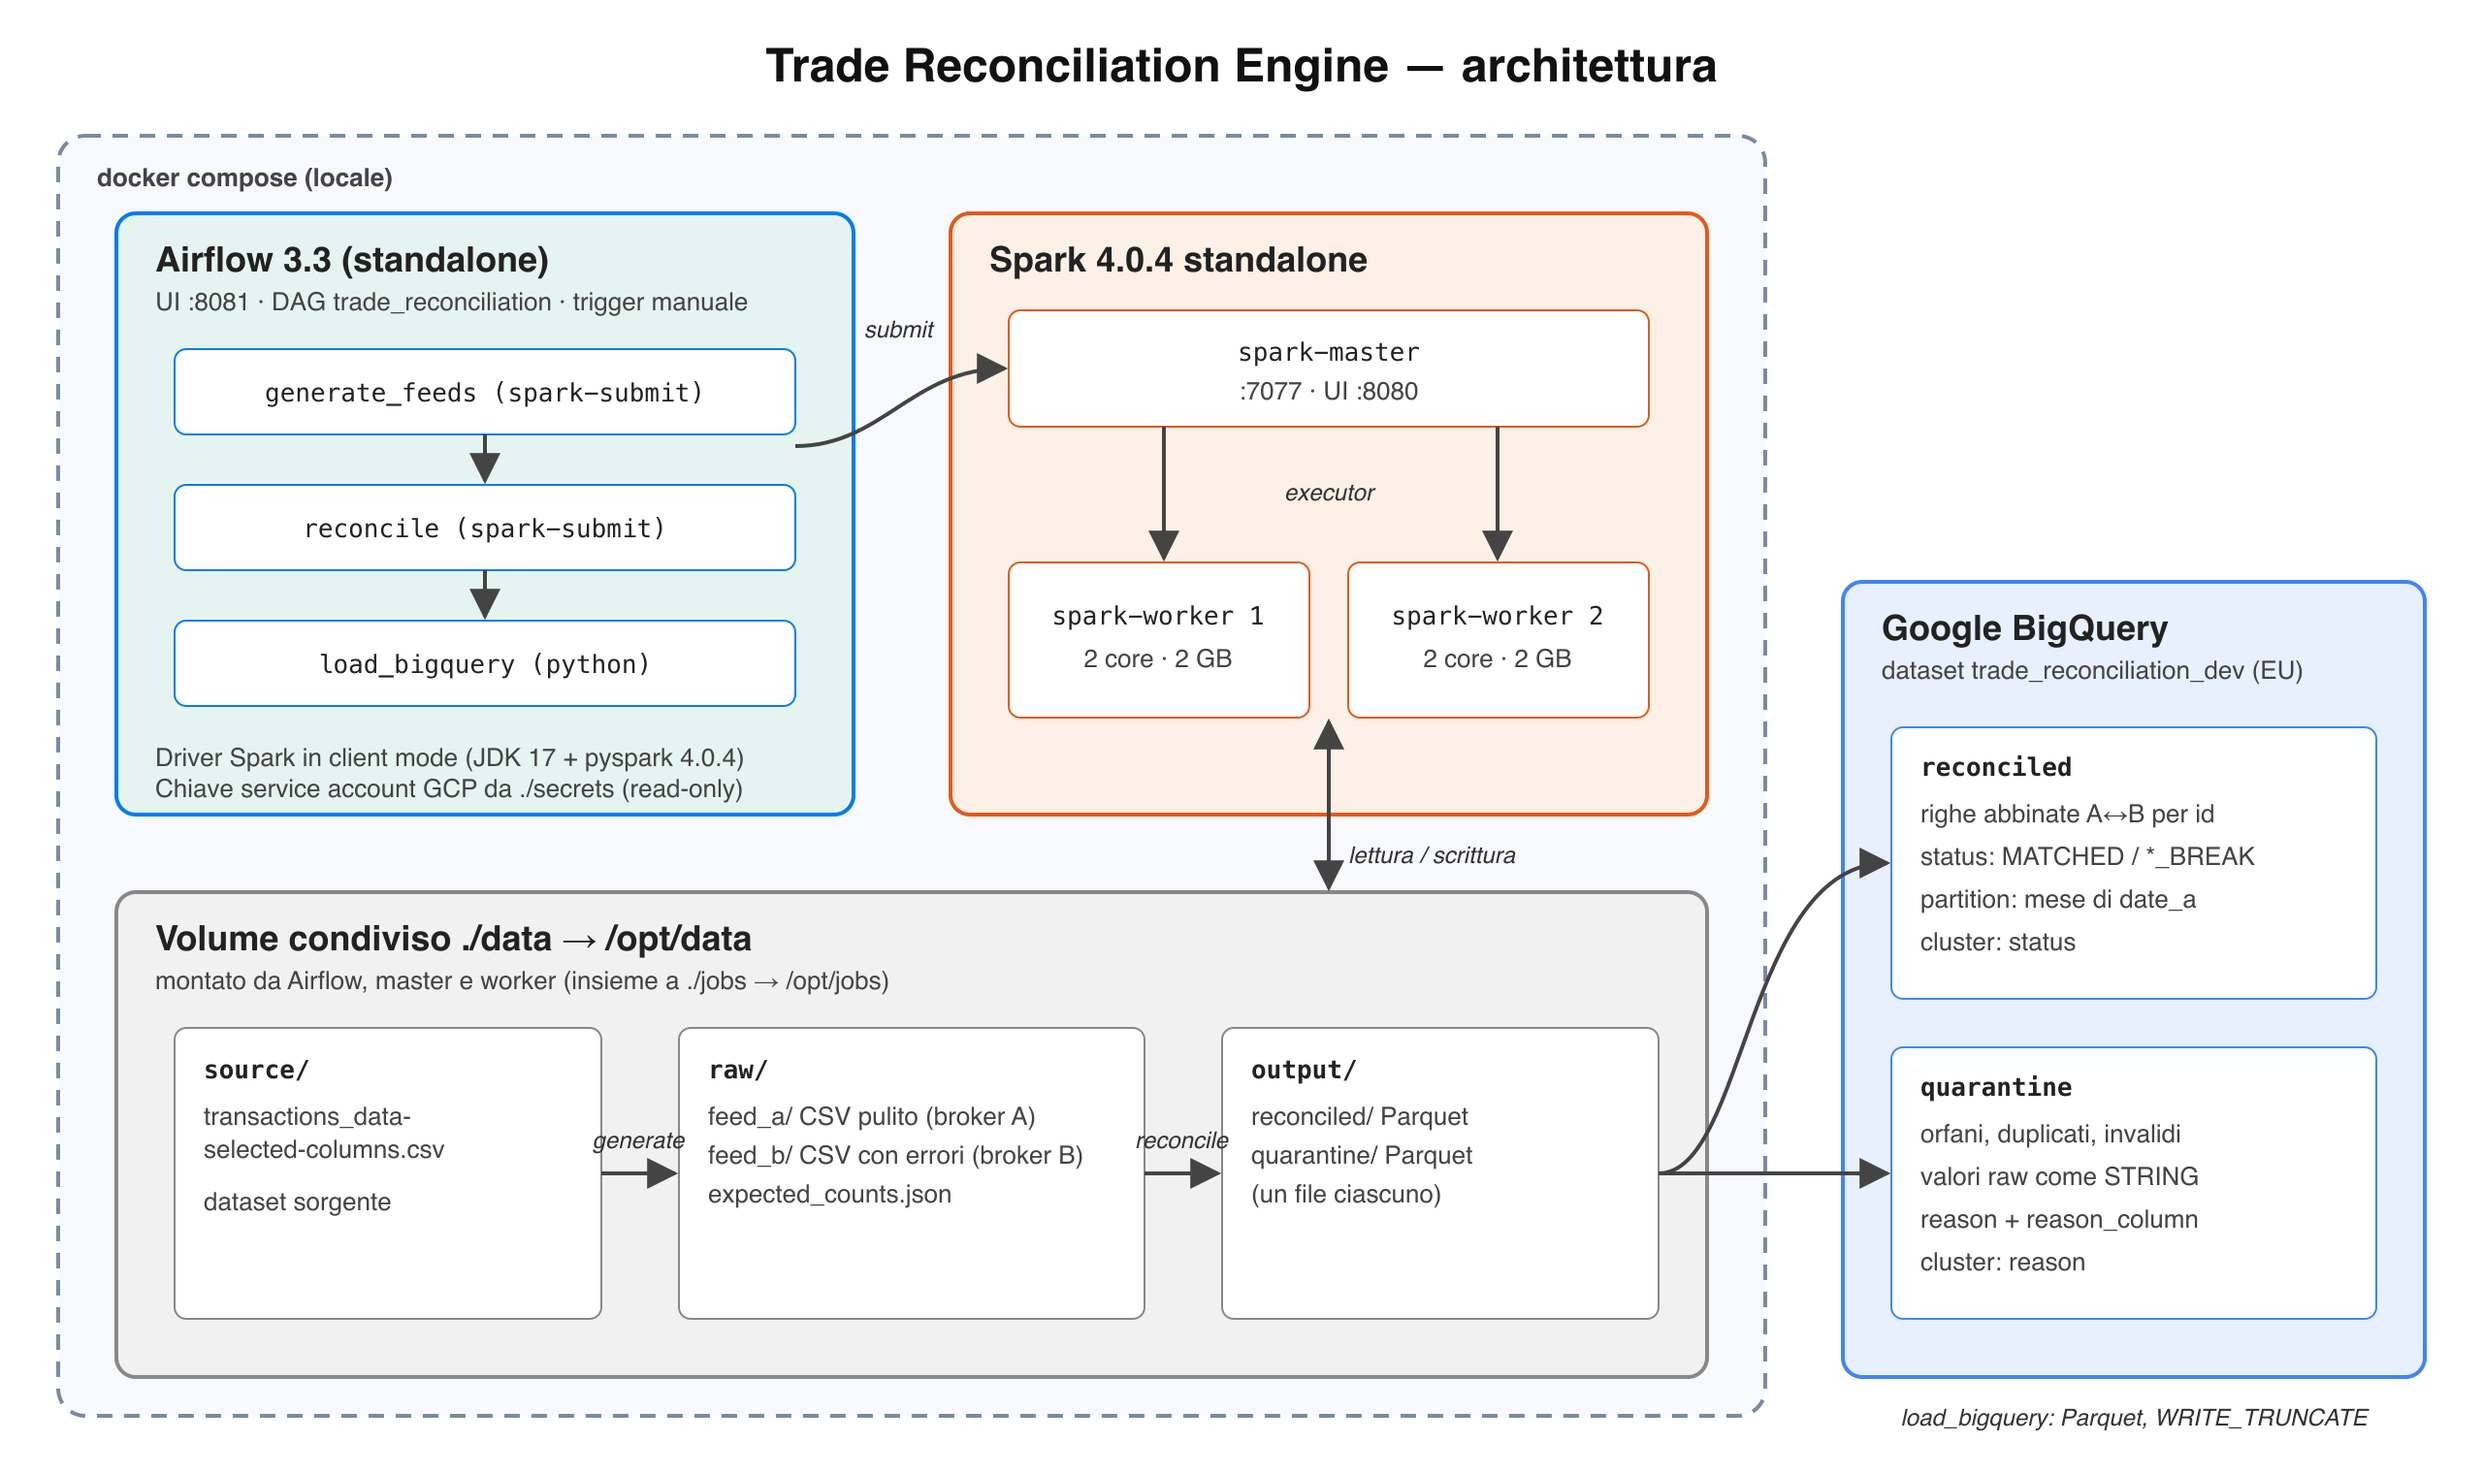
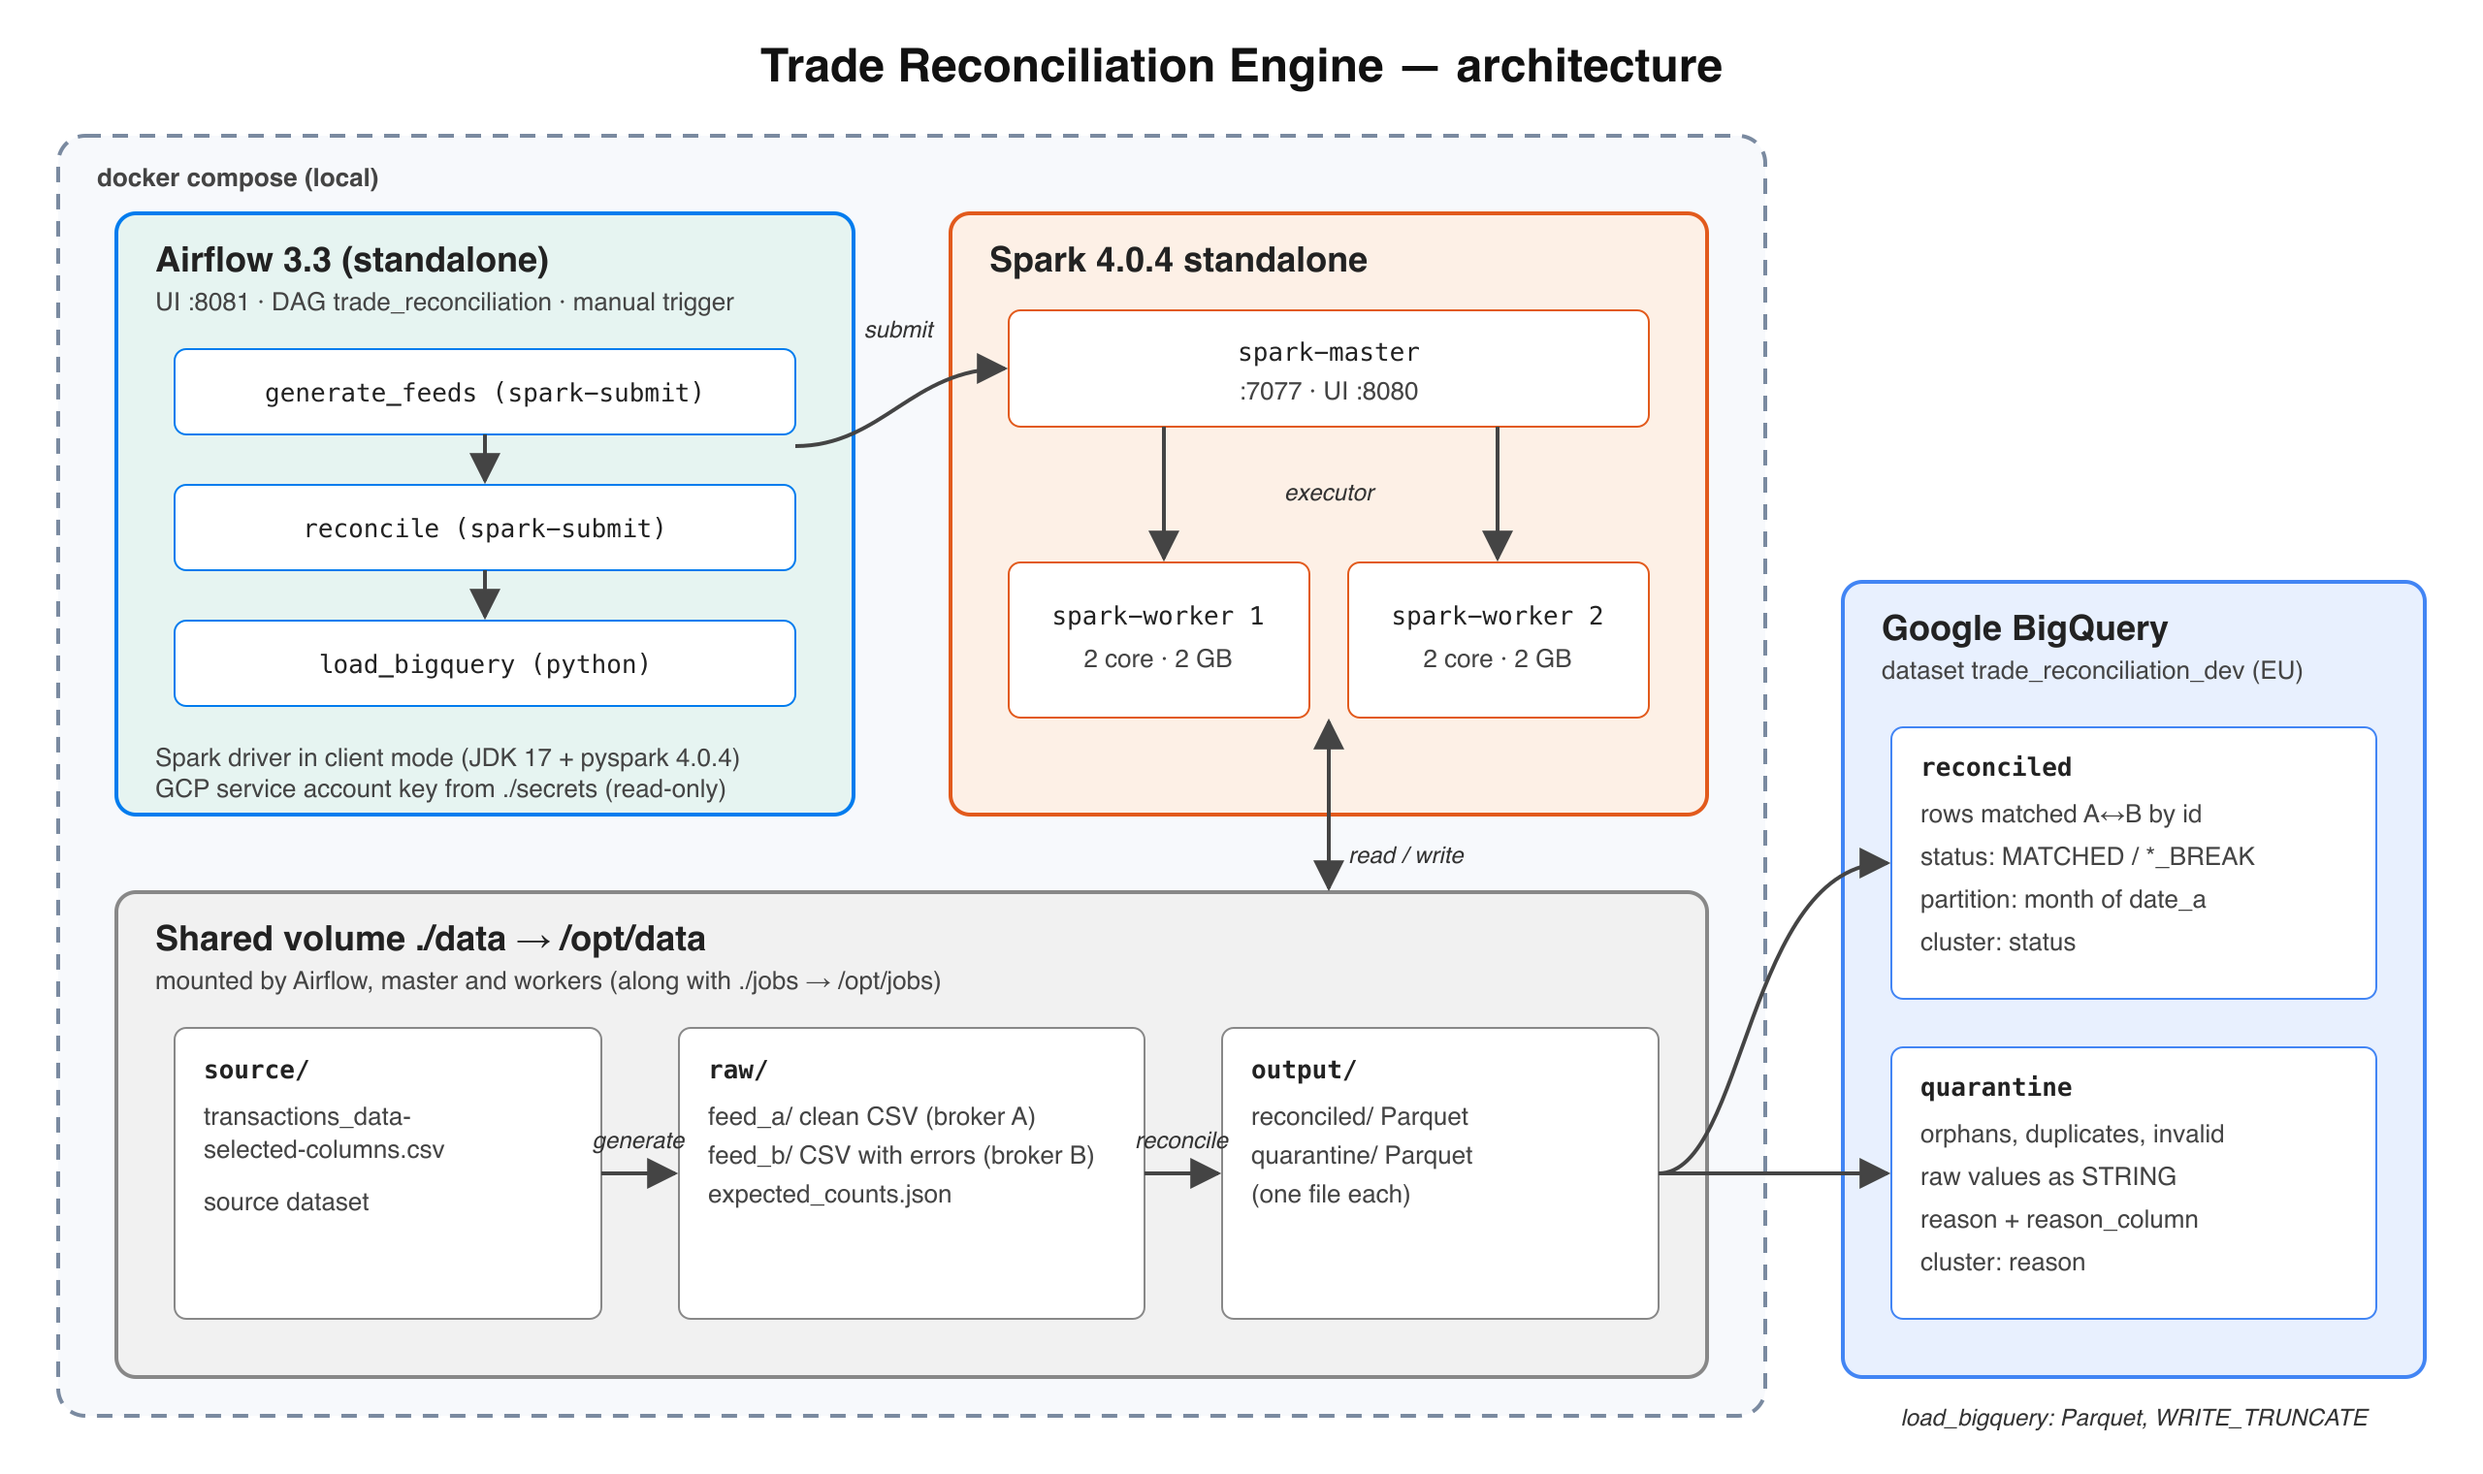
Translate remaining Italian text to English
- Translated comments and docstrings in jobs
- Translated SQL schema comments
- Translated compose and Dockerfile comments
- Translated script output messages
- Translated architecture diagram labels
- Re-rendered architecture PNG

diff --git a/jobs/generate_feeds.py b/jobs/generate_feeds.py
@@ -1,8 +1,8 @@
-"""Simula i due feed dei broker.
+"""Simulate the two broker feeds.
 
-A = CSV sorgente ridotto a 6 colonne (riferimento pulito).
-B = copia di A con al massimo un errore per riga; seed e peso di ogni tipo di errore cambiano a ogni run.
-Scrive anche expected_counts.json: l'esito atteso di ogni riga, usato da reconcile.py per verificarsi.
+A = source CSV reduced to 6 columns (clean reference).
+B = copy of A with at most one error per row; the seed and the weight of each error type change on every run.
+Also writes expected_counts.json: the expected outcome of every row, used by reconcile.py to check itself.
 """
 import json
 import random
@@ -15,20 +15,20 @@ from pyspark.sql import SparkSession, functions as F
 SRC = "/opt/data/source/transactions_data-selected-columns.csv"
 OUT = "/opt/data/raw"
 COLS = ["id", "date", "client_id", "card_id", "amount", "merchant_id"]
-SEED = random.randrange(2**31)  # salvato in expected_counts.json
-ERROR_RATE, ID_RATE, NULL_RATE = 0.75, 0.005, 0.02  # ID e NULL sono compresi nel 75%
+SEED = random.randrange(2**31)  # saved in expected_counts.json
+ERROR_RATE, ID_RATE, NULL_RATE = 0.75, 0.005, 0.02  # ID and NULL are included in the 75%
 
-# tipo di errore -> esito atteso (status in reconciled o reason in quarantine)
+# error type -> expected outcome (status in reconciled or reason in quarantine)
 VALUE_ERRORS = {
-    "date_jitter": "MATCHED",                # ±1-59 s, entro la tolleranza
+    "date_jitter": "MATCHED",                # ±1-59 s, within tolerance
     "date_shift": "DATE_BREAK",              # +2 min .. 3 h
-    "date_future": "OUT_OF_DOMAIN",          # +100 anni (multiplo di 4: il 29/02 resta valido)
-    "date_malformed": "UNPARSEABLE",         # formato dd/MM/yyyy HH:mm
-    "amount_rounding": "MATCHED",            # ±0.01, entro la tolleranza
+    "date_future": "OUT_OF_DOMAIN",          # +100 years (multiple of 4: Feb 29 stays valid)
+    "date_malformed": "UNPARSEABLE",         # dd/MM/yyyy HH:mm format
+    "amount_rounding": "MATCHED",            # ±0.01, within tolerance
     "amount_change": "AMOUNT_BREAK",         # ±1 .. 100
-    "amount_fat_finger": "OUT_OF_DOMAIN",    # +1.000.000
+    "amount_fat_finger": "OUT_OF_DOMAIN",    # +1,000,000
     "amount_malformed": "UNPARSEABLE",       # "#VALUE!"
-    "client_change": "CLIENT_BREAK",         # un altro client valido
+    "client_change": "CLIENT_BREAK",         # another valid client
     "client_out_of_range": "OUT_OF_DOMAIN",
     "card_change": "CARD_BREAK",
     "card_out_of_range": "OUT_OF_DOMAIN",
@@ -36,17 +36,17 @@ VALUE_ERRORS = {
     "merchant_out_of_range": "OUT_OF_DOMAIN",
 }
 NULL_ERRORS = {f"null_{c}": "NULL_VALUE" for c in COLS[1:]}
-DOMAIN_SIZE = {"client_id": 1999, "card_id": 6145, "merchant_id": 100343}  # id validi: 0 .. N-1
+DOMAIN_SIZE = {"client_id": 1999, "card_id": 6145, "merchant_id": 100343}  # valid ids: 0 .. N-1
 
 rng = random.Random(SEED)
 
 
-def split(names, total):  # un peso casuale per ogni nome, con somma total
+def split(names, total):  # a random weight for each name, summing to total
     w = {n: rng.random() for n in names}
     return {n: x / sum(w.values()) * total for n, x in w.items()}
 
 
-# probabilità di ogni tipo di errore: ID e NULL hanno quote fisse, il resto va agli errori sui valori
+# probability of each error type: ID and NULL have fixed shares, the rest goes to value errors
 WEIGHTS = {"id_shift": ID_RATE, **split(NULL_ERRORS, NULL_RATE),
            **split(VALUE_ERRORS, ERROR_RATE - ID_RATE - NULL_RATE)}
 
@@ -57,11 +57,11 @@ a = spark.read.csv(SRC, header=True).select(COLS)
 a.write.mode("overwrite").csv(f"{OUT}/feed_a", header=True)
 
 
-# Numeri casuali materializzati come colonne: ogni riga usa sempre gli stessi valori.
+# Random numbers materialized as columns: each row always uses the same values.
 b = a.select("*", *[F.rand(SEED + i).alias(n) for i, n in enumerate("ums")])
 u, m = F.col("u"), F.col("m")
 
-# u cade in uno degli intervalli [0, w1), [w1, w1+w2), ...: oltre ERROR_RATE la riga resta pulita.
+# u falls into one of the intervals [0, w1), [w1, w1+w2), ...: above ERROR_RATE the row stays clean.
 names, bounds = list(WEIGHTS), list(accumulate(WEIGHTS.values()))
 error = F.when(u < bounds[0], names[0])
 for name, bound in zip(names[1:], bounds[1:]):
@@ -86,13 +86,13 @@ def plus(c, n):
     return (F.col(c).cast("bigint") + n).cast("string")
 
 
-def other(c):  # un altro id del dominio, sempre diverso dall'originale
+def other(c):  # another id in the domain, always different from the original
     n = DOMAIN_SIZE[c]
     return ((F.col(c).cast("bigint") + 1 + (m * (n - 1)).cast("bigint")) % n).cast("string")
 
 
 mutated = {
-    "id": F.when(e == "id_shift", plus("id", 100_000_000)),  # oltre il max di A: niente collisioni
+    "id": F.when(e == "id_shift", plus("id", 100_000_000)),  # beyond A's max: no collisions
     "date": F.when(e == "date_jitter", ts(secs + sign * (1 + (m * 59).cast("int"))))
              .when(e == "date_shift", ts(secs + 120 + (m * 10_680).cast("int")))
              .when(e == "date_future", F.concat(plus("date_year", 100), F.substring("date", 5, 15)))

diff --git a/jobs/reconcile.py b/jobs/reconcile.py
@@ -1,9 +1,9 @@
-"""Riconcilia feed A e B.
+"""Reconcile feeds A and B.
 
-1. Legge i due feed come stringhe, converte i tipi e valida ogni campo.
-2. FULL OUTER JOIN su id. Le righe senza controparte vanno in quarantena.
-3. Le righe abbinate con un valore invalido vanno in quarantena, le altre vengono classificate.
-Scrive reconciled/ e quarantine/ in Parquet (un file ciascuno, per il load su BigQuery).
+1. Read both feeds as strings, cast the types and validate every field.
+2. FULL OUTER JOIN on id. Rows without a counterpart go to quarantine.
+3. Matched rows with an invalid value go to quarantine, the others are classified.
+Writes reconciled/ and quarantine/ as Parquet (one file each, for the BigQuery load).
 """
 import json
 import os
@@ -16,7 +16,7 @@ from pyspark.sql import SparkSession, Window, functions as F
 
 RAW, OUT = "/opt/data/raw", "/opt/data/output"
 FIELDS = ["date", "client_id", "card_id", "amount", "merchant_id"]
-ID_RANGES = {"client_id": (0, 1998), "card_id": (0, 6144), "merchant_id": (0, 100342)}  # dal profiling di A
+ID_RANGES = {"client_id": (0, 1998), "card_id": (0, 6144), "merchant_id": (0, 100342)}  # from profiling A
 MIN_DATE = "2010-01-01"
 MAX_AMOUNT = 50_000
 DATE_TOLERANCE_SEC = 60
@@ -24,12 +24,12 @@ AMOUNT_TOLERANCE = Decimal("0.01")
 
 spark = (SparkSession.builder.appName("reconcile")
          .config("spark.sql.session.timeZone", "UTC")
-         .config("spark.sql.parquet.outputTimestampType", "TIMESTAMP_MICROS")  # INT96 non serve a BigQuery
+         .config("spark.sql.parquet.outputTimestampType", "TIMESTAMP_MICROS")  # BigQuery does not need INT96
          .getOrCreate())
 
 
 def load(side):
-    """Feed tipizzato + valori raw + primo problema trovato (struct reason/column, null se la riga è valida)."""
+    """Typed feed + raw values + first problem found (reason/column struct, null if the row is valid)."""
     raw = spark.read.csv(f"{RAW}/feed_{side}", header=True)
     typed = {
         "id": F.col("id").try_cast("bigint"),
@@ -58,7 +58,7 @@ def load(side):
                       first.alias(f"issue_{side}"))
 
 
-def bad_id(side):  # id nullo, invalido o duplicato: la riga non può partecipare al join
+def bad_id(side):  # null, invalid or duplicate id: the row cannot take part in the join
     return F.coalesce(F.col(f"issue_{side}.column") == f"id_{side}", F.lit(False))
 
 
@@ -104,16 +104,16 @@ pairs = [f"{c}_{s}" for c in FIELDS for s in "ab"]
          "reason", "reason_column", "run_id", "loaded_at")
  .repartition(1).write.mode("overwrite").parquet(f"{OUT}/quarantine"))
 
-# Verifica: i conteggi per status/reason devono coincidere con quelli attesi dal generatore.
+# Check: counts per status/reason must match those expected by the generator.
 actual = {r[0]: r[1] for t, c in (("reconciled", "status"), ("quarantine", "reason"))
           for r in spark.read.parquet(f"{OUT}/{t}").groupBy(c).count().collect()}
 print(f"run_id {run_id}")
 expected_path = f"{RAW}/expected_counts.json"
 expected = json.load(open(expected_path))["expected"] if os.path.exists(expected_path) else {}
-print(f"{'esito':<16}{'trovati':>12}{'attesi':>12}")
+print(f"{'outcome':<16}{'found':>12}{'expected':>12}")
 for label in sorted(actual.keys() | expected.keys()):
-    ok = "" if not expected or actual.get(label) == expected.get(label) else "  <-- DIVERSO"
+    ok = "" if not expected or actual.get(label) == expected.get(label) else "  <-- MISMATCH"
     print(f"{label:<16}{actual.get(label, 0):>12,}{expected.get(label, 0):>12,}{ok}")
 spark.stop()
 if expected and actual != expected:
-    sys.exit("Conteggi diversi da quelli attesi")
+    sys.exit("Counts differ from expected")

diff --git a/jobs/load_bigquery.py b/jobs/load_bigquery.py
@@ -1,7 +1,7 @@
-"""Carica reconciled/ e quarantine/ nelle tabelle BigQuery trade_reconciliation_dev.*, sostituendone il contenuto.
+"""Load reconciled/ and quarantine/ into the BigQuery tables trade_reconciliation_dev.*, replacing their content.
 
-Le tabelle devono già esistere (bigquery/schema.sql). Progetto e credenziali arrivano dalla
-chiave del service account indicata da GOOGLE_APPLICATION_CREDENTIALS.
+The tables must already exist (bigquery/schema.sql). Project and credentials come from the
+service account key pointed to by GOOGLE_APPLICATION_CREDENTIALS.
 """
 import glob
 
@@ -13,8 +13,8 @@ config = bigquery.LoadJobConfig(source_format=bigquery.SourceFormat.PARQUET,
                                 create_disposition="CREATE_NEVER")
 
 for table in ("reconciled", "quarantine"):
-    [path] = glob.glob(f"/opt/data/output/{table}/*.parquet")  # reconcile.py scrive un solo file
+    [path] = glob.glob(f"/opt/data/output/{table}/*.parquet")  # reconcile.py writes a single file
     with open(path, "rb") as f:
         job = client.load_table_from_file(f, f"{client.project}.trade_reconciliation_dev.{table}", job_config=config)
     job.result()
-    print(f"{table}: {job.output_rows:,} righe caricate")
+    print(f"{table}: {job.output_rows:,} rows loaded")
